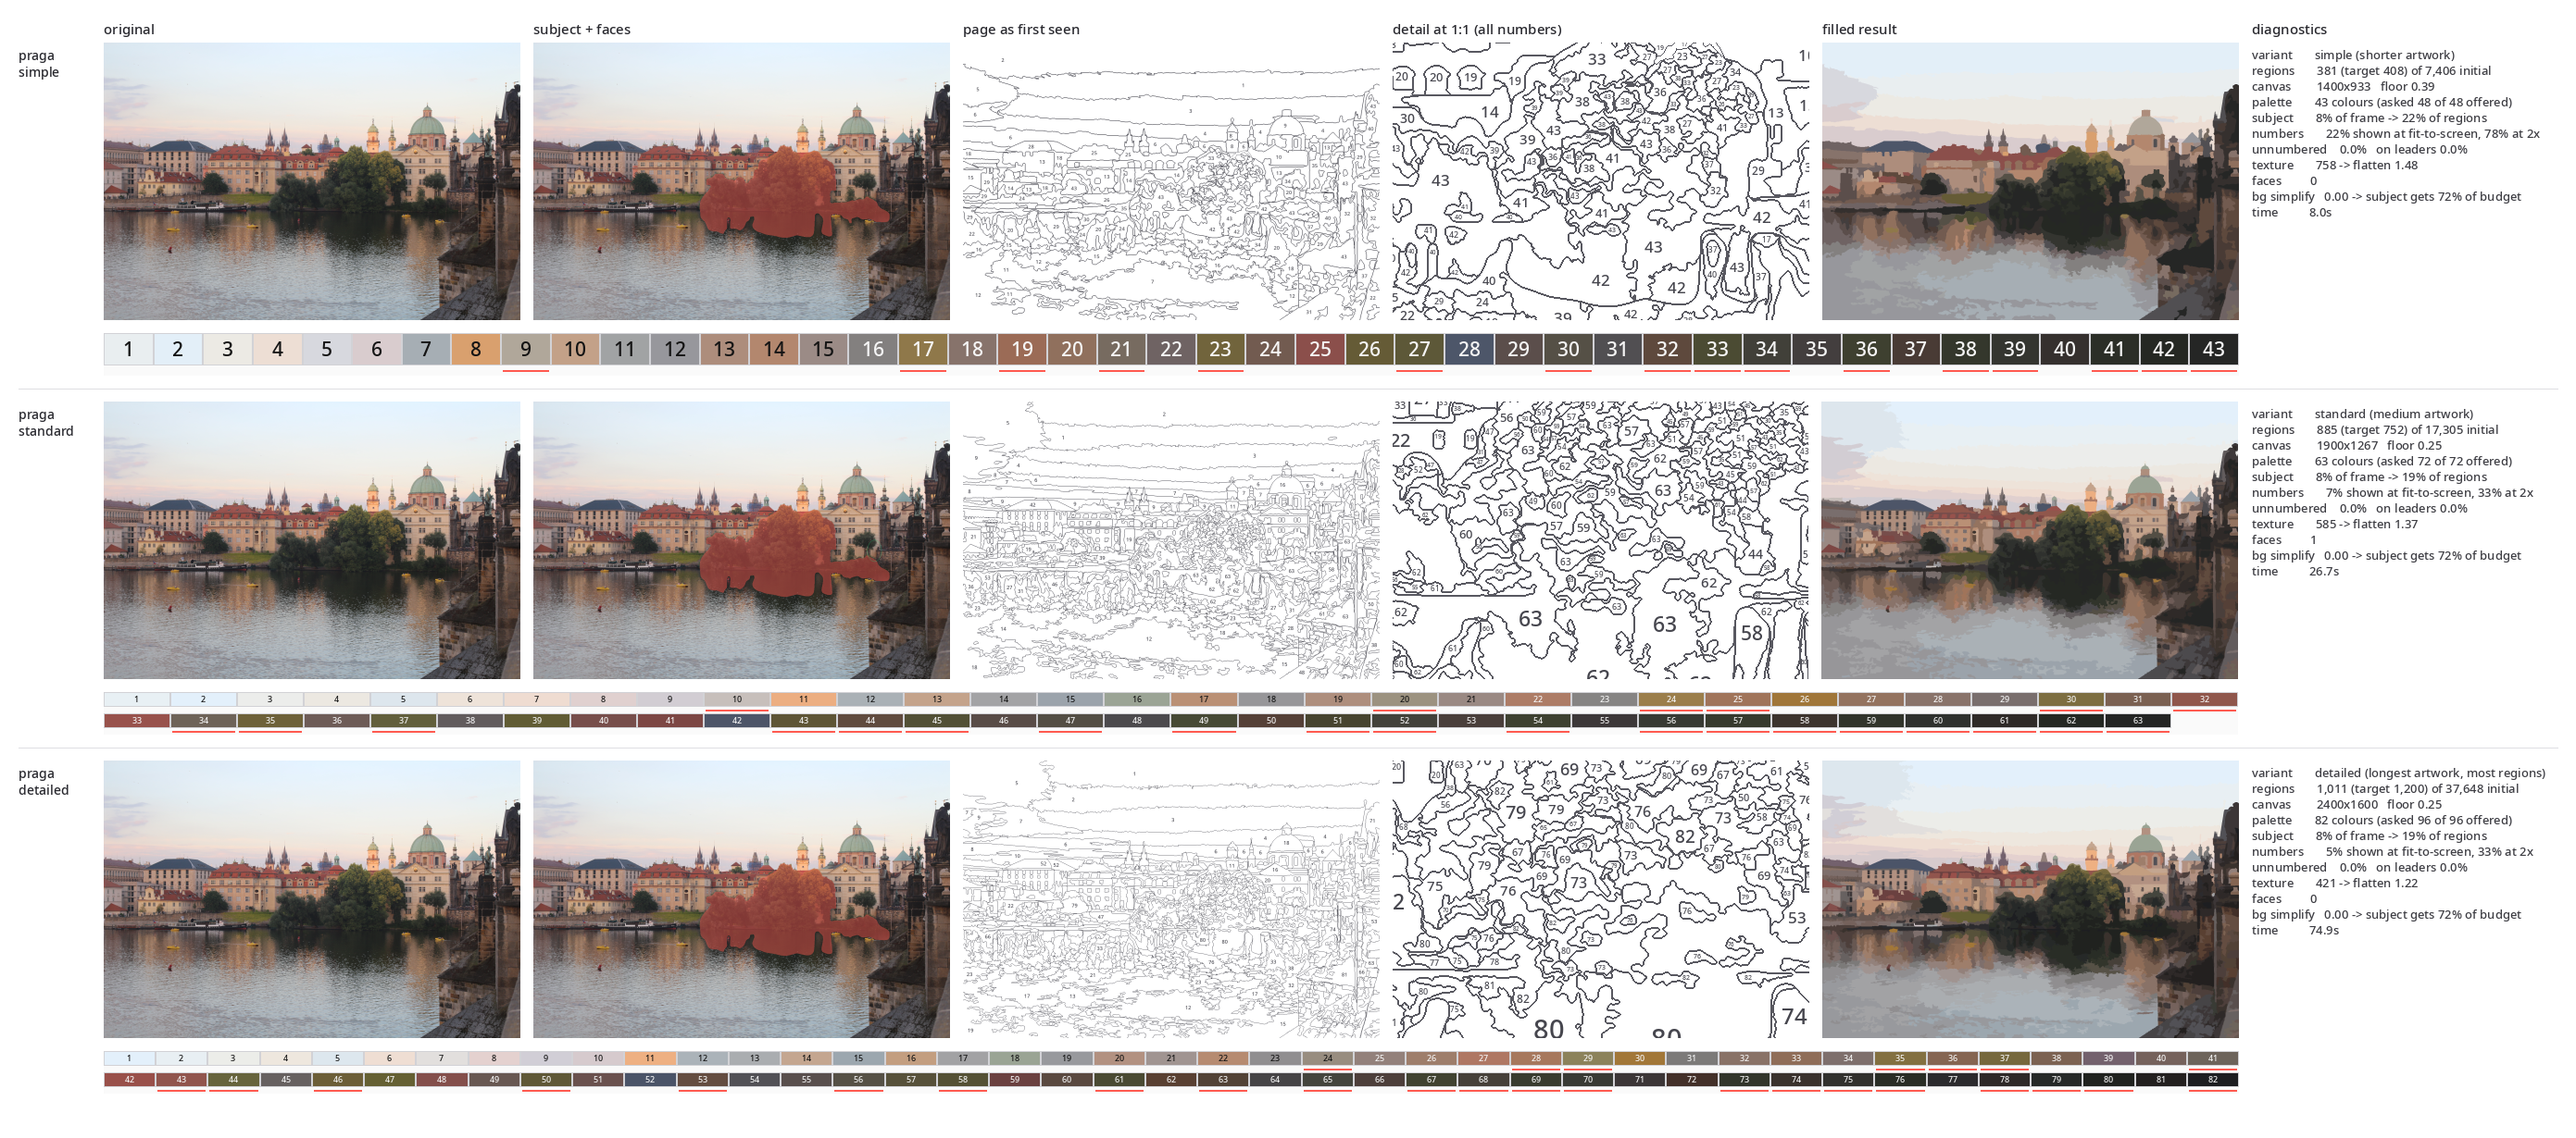
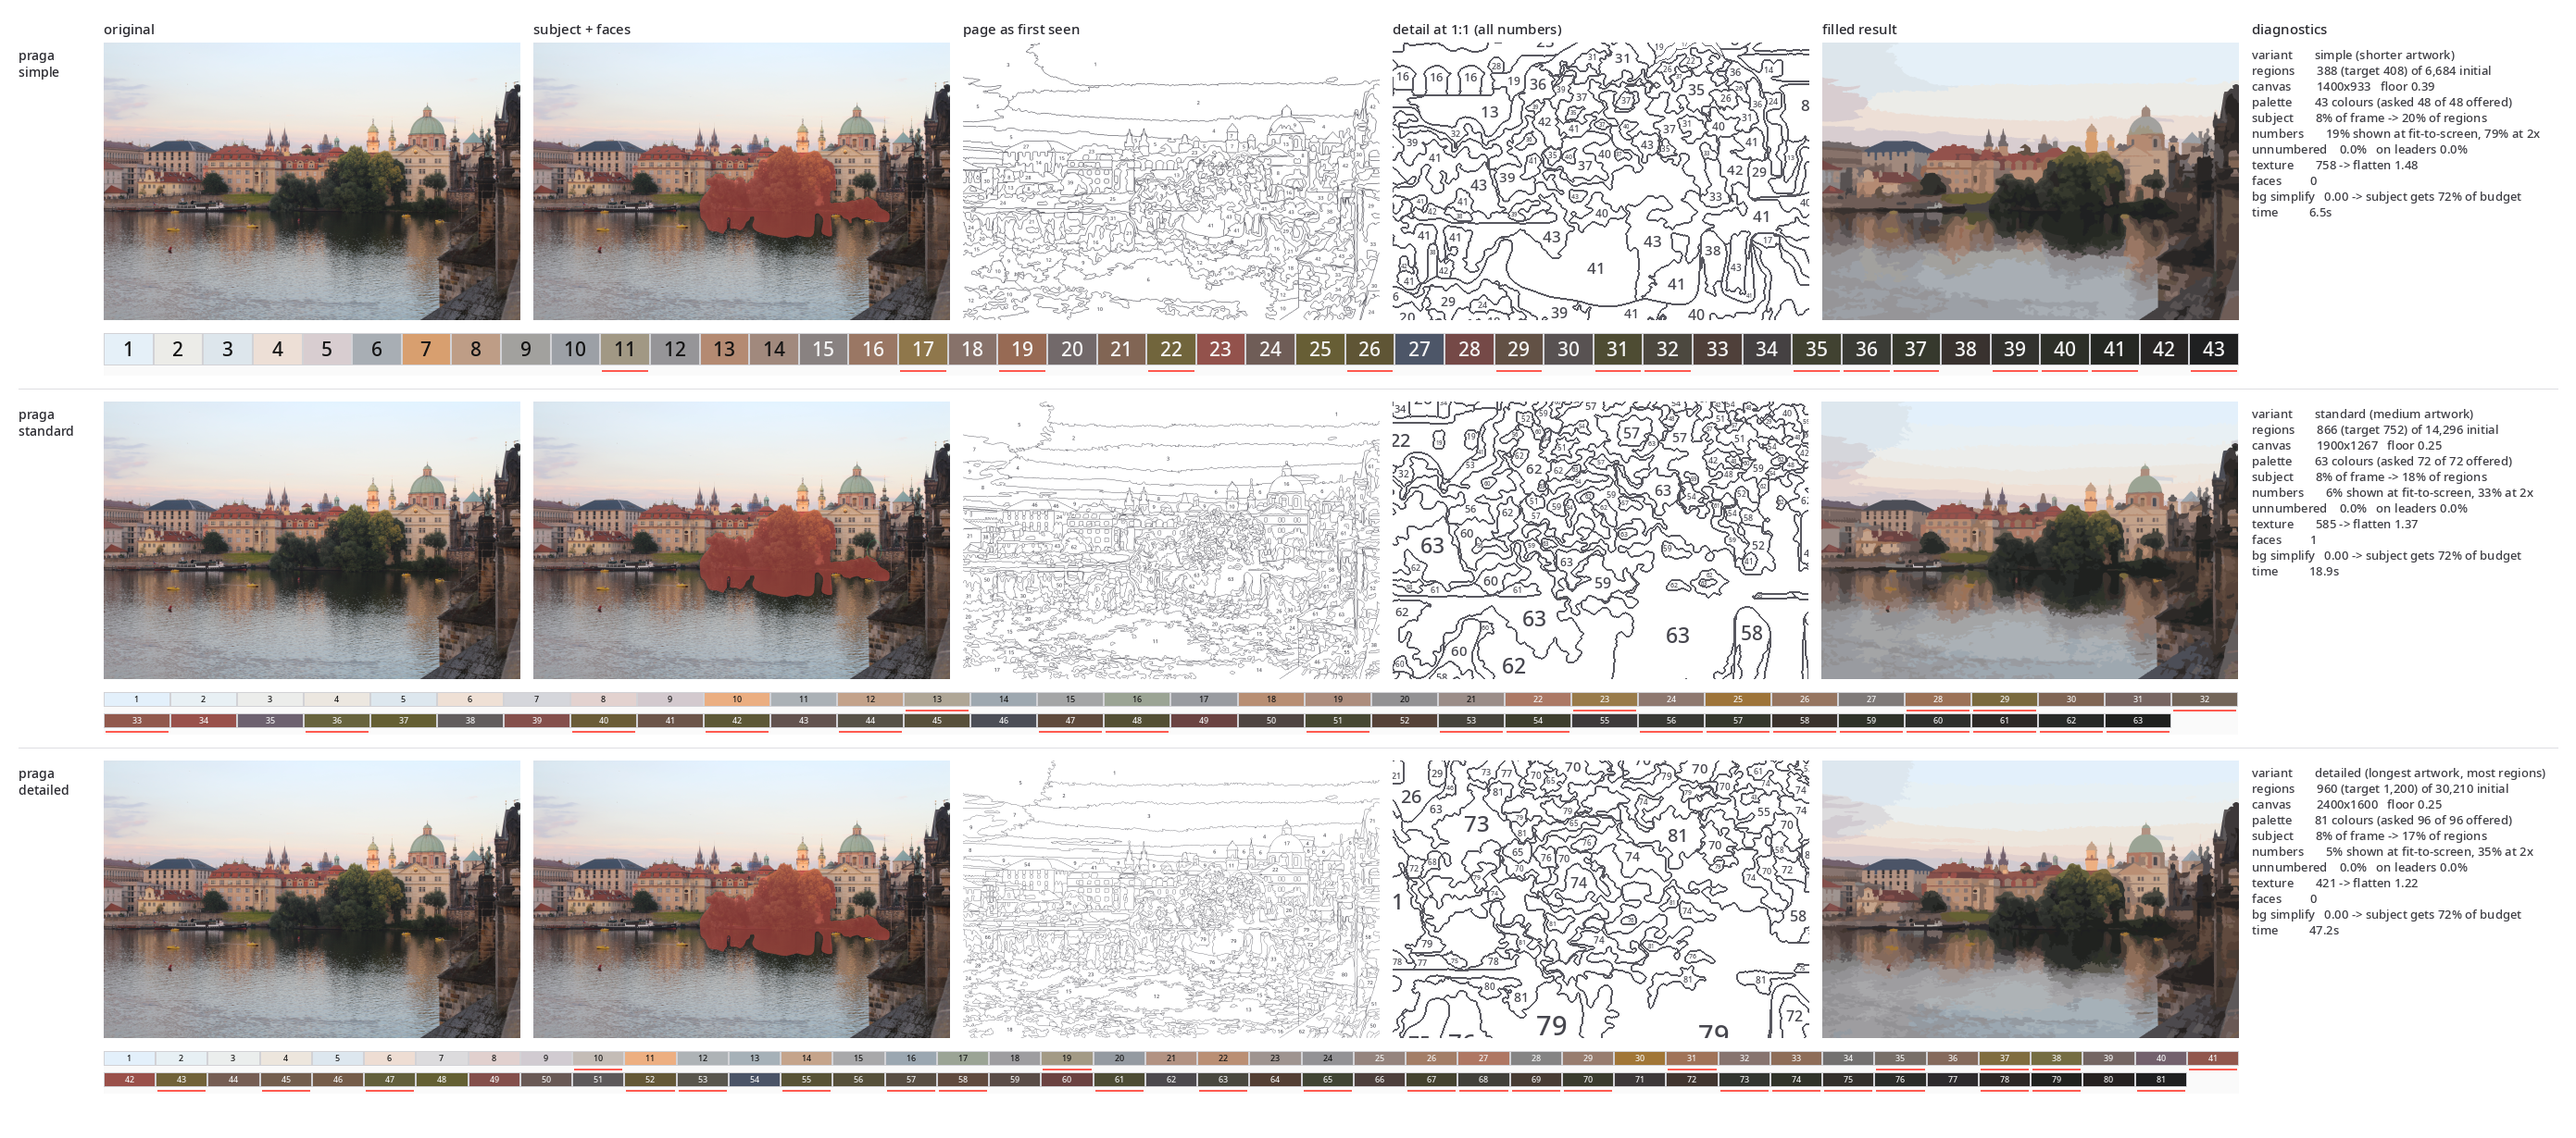
Texture-adaptive flattening; validate on real phone photos
Reviewer supplied 7 camera-roll photos (6.2-8.3MP, mixed orientation), the first
representative test - the previous corpus was 7 web-class to 2 camera-roll, so
every earlier calibration was tuned against the wrong input distribution.

RESULT ON PHONE PHOTOS: works well. detailed lands at 625-1,562 regions with
75-95 colours, 0.0% unnumbered, consistent across all seven. Filled results are
near-photographic on a mid-distance portrait. Multi-subject confirmed (2-3 faces
detected, both people in the mask). Portrait and landscape both fine.

TEXTURE-ADAPTIVE FLATTENING. Subject-aware flattening deliberately preserves
subject detail, which is actively wrong for hair: it keeps thousands of individual
strands as thin snaking regions and gives the page a contour-map look. Hair wants
a dozen tonal masses, not 500 strand regions; foliage, fur and fabric weave are the
same problem, and subject membership cannot distinguish hair from a cheek.

local_texture() measures per-pixel fine texture (mean absolute Laplacian over a
window, normalised to the 97th percentile). flatten_texture_adaptive() escalates
flattening where that is high, applied ADDITIVELY on top of the subject-aware
result so smooth areas keep their existing treatment.

An earlier version of the experiment also lowered the baseline, conflating two
changes and making 4 of 6 images worse. Corrected to purely additive it reduces
initial regions on EVERY image: -42% on the long-hair portrait, -4% to -18%
[…]

diff --git a/pipeline/bench/test_texture_adaptive.py b/pipeline/bench/test_texture_adaptive.py
@@ -1,0 +1,81 @@
+"""Should flattening follow LOCAL TEXTURE rather than subject membership?
+
+Current behaviour flattens the subject LESS, to preserve detail that carries likeness. On hair
+that is actively harmful: it keeps thousands of individual strands as thin snaking regions and
+gives the page a contour-map look. Hair does not want 500 strand regions, it wants ~20 tonal masses.
+
+Foliage, fur and fabric weave are the same problem. The hypothesis is that flatten strength should
+track LOCAL texture — hair and leaves flattened hard, smooth gradients (faces, skies) preserved —
+independently of whether the pixels belong to the subject.
+"""
+
+import sys
+
+import cv2
+import numpy as np
+
+from pbn import color, images, preprocess, quantize, segment, subject
+
+CORPUS = sys.argv[1] if len(sys.argv) > 1 else "../corpus"
+WORK, K = 1900, 72
+
+
+def local_texture(img: np.ndarray, window: int = 25) -> np.ndarray:
+    """Per-pixel local texture: standard deviation of the Laplacian in a window, 0..1."""
+    grey = cv2.cvtColor(img, cv2.COLOR_RGB2GRAY).astype(np.float32)
+    lap = np.abs(cv2.Laplacian(grey, cv2.CV_32F))
+    k = window | 1
+    mean = cv2.blur(lap, (k, k))
+    # Normalise robustly; the top percentile is hair/foliage.
+    high = np.percentile(mean, 97)
+    return np.clip(mean / max(high, 1e-6), 0.0, 1.0)
+
+
+def flatten_texture_adaptive(img, mask, base, simp, high=3.2):
+    """Escalate flattening in high-texture areas only, on top of current behaviour.
+
+    Purely additive: smooth areas keep exactly the flattening they get today, and only hair,
+    foliage and weave are pushed harder. This is the correct comparison - an earlier version
+    also lowered the baseline, which conflated two changes.
+    """
+    light = preprocess.flatten_differential(img, mask, simplify_background=simp)
+    heavy = preprocess.flatten(img, strength=base * high)
+    weight = local_texture(img)[:, :, None]
+    return np.clip(light * (1.0 - weight) + heavy * weight, 0, 255).astype(np.uint8)
+
+
+print(f"canvas {WORK}px, k={K}   initial regions = merge workload; lower is a cleaner page")
+print(
+    f"{'image':16s} {'texture':>8s} {'initial now':>12s} {'initial adaptive':>17s} {'change':>8s}"
+)
+print("-" * 68)
+for p in images.list_images(CORPUS):
+    if p.stem not in {"leonorGoncalo", "martim", "porto", "arouca", "tese", "deniro"}:
+        continue
+    w = images.fit_long_edge(images.load(p), WORK)
+    s = subject.detect(w, cache_dir=".cache/subject")
+    mask = None if s is None else s.mask
+    base = preprocess.suggest_strength(w)
+    simp = preprocess.background_simplification(w, mask)
+
+    now = preprocess.flatten_differential(w, mask, simplify_background=simp)
+    adaptive = flatten_texture_adaptive(w, mask, base, simp)
+
+    counts = []
+    for variant in (now, adaptive):
+        q = quantize.quantize(variant, K, subject_mask=mask)
+        lab = color.rgb_to_lab(variant)
+        seg = segment.segment(
+            q.labels,
+            q.n_colours,
+            lab,
+            q.palette_lab,
+            budget=100000,
+            subject_mask=mask,
+            min_radius_scale=1.0,
+        )
+        counts.append(seg.initial_regions)
+    print(
+        f"{p.stem:16s} {preprocess.texture_score(w):8.0f} {counts[0]:12,d} {counts[1]:17,d} "
+        f"{counts[1] / counts[0] - 1:7.0%}"
+    )

diff --git a/pipeline/pbn/preprocess.py b/pipeline/pbn/preprocess.py
@@ -108,6 +108,12 @@ BACKGROUND_TEXTURE_STRUCTURED = 400.0
 BACKGROUND_RATIO_STRONG = 3.0
 BACKGROUND_RATIO_FLOOR = 0.75
 
+# Local-texture flattening. Areas at the top of the texture scale are flattened this many times the
+# base strength, which turns hair strands and foliage into tonal masses instead of ribbons.
+TEXTURE_FLATTEN_STRENGTH = 3.2
+# Percentile used to normalise the local texture scale; hair and foliage sit at the top of it.
+TEXTURE_PERCENTILE = 97.0
+
 # At full simplification the background's flatten strength is multiplied by 1 + this.
 #
 # Reduced from 1.5 after the reviewer asked for uniform detail across the canvas. Measured cost of
@@ -224,6 +230,53 @@ def flatten(
         # Bilateral first to kill noise cheaply, then mean-shift to consolidate plateaus.
         return _mean_shift(_bilateral_cascade(img, strength * 0.6), strength)
     raise ValueError(f"unknown flatten mode: {mode!r} (expected one of {MODES})")
+
+
+def local_texture(img: np.ndarray, window: int = 25) -> np.ndarray:
+    """Per-pixel local texture in 0..1: mean absolute Laplacian over a window.
+
+    Distinguishes *fine texture* (hair, foliage, fur, fabric weave) from *smooth gradient* (skin,
+    sky, painted wall). The two need opposite treatment and subject membership cannot tell them
+    apart — hair and a cheek are both "subject".
+
+    Normalised against the 97th percentile rather than the maximum, so a few specular highlights
+    do not compress the whole scale.
+    """
+    grey = cv2.cvtColor(img, cv2.COLOR_RGB2GRAY).astype(np.float32)
+    laplacian = np.abs(cv2.Laplacian(grey, cv2.CV_32F))
+    k = window | 1
+    smoothed = cv2.blur(laplacian, (k, k))
+    high = float(np.percentile(smoothed, TEXTURE_PERCENTILE))
+    return np.clip(smoothed / max(high, 1e-6), 0.0, 1.0)
+
+
+def flatten_texture_adaptive(
+    img: np.ndarray,
+    subject_mask: np.ndarray | None,
+    simplify_background: float = 0.0,
+    texture_strength: float = TEXTURE_FLATTEN_STRENGTH,
+    mode: FlattenMode = DEFAULT_MODE,
+) -> np.ndarray:
+    """Flatten with extra force wherever local texture is high.
+
+    Subject-aware flattening deliberately preserves subject detail, which is actively wrong for
+    hair: it keeps thousands of individual strands as thin snaking regions and gives the page a
+    contour-map look. Hair does not want 500 strand regions, it wants a dozen tonal masses. Foliage,
+    fur and fabric weave are the same problem.
+
+    Applied **additively** on top of the subject-aware result: smooth areas keep exactly the
+    treatment they had, and only textured areas are pushed harder. Measured reduction in initial
+    regions: 42% on a long-hair portrait, 4-18% on everything else — it helps every image tested and
+    helps most where the problem is worst.
+    """
+    base = suggest_strength(img)
+    light = flatten_differential(
+        img, subject_mask, simplify_background=simplify_background, mode=mode
+    )
+    heavy = flatten(img, strength=base * texture_strength, mode=mode)
+    weight = local_texture(img)[:, :, None]
+    blended = light.astype(np.float32) * (1.0 - weight) + heavy.astype(np.float32) * weight
+    return np.clip(blended, 0, 255).astype(np.uint8)
 
 
 def flatten_differential(

diff --git a/pipeline/pbn/pipeline.py b/pipeline/pbn/pipeline.py
@@ -296,7 +296,7 @@ def convert(
     texture = preprocess.texture_score(working)
     strength = preprocess.suggest_strength(working)
     simplify = preprocess.background_simplification(working, mask)
-    flat = preprocess.flatten_differential(working, mask, simplify_background=simplify)
+    flat = preprocess.flatten_texture_adaptive(working, mask, simplify_background=simplify)
     timings["flatten"] = time.perf_counter() - t
 
     target = target_region_count(working.shape[:2], variant)
